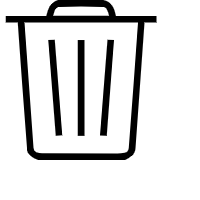
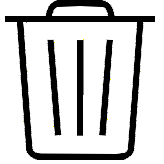
add垃圾桶

diff --git a/src/views/Body/Animation/Left/Body/Upcontext/Component/TodoList/index.tsx b/src/views/Body/Animation/Left/Body/Upcontext/Component/TodoList/index.tsx
@@ -1,48 +1,60 @@
-import React from "react";
-import * as style from "./style.scss";
-import Top from "./Top";
-import img1 from "../img1.jpg";
-import img2 from "./img1.png";
-import useGet from "src/useGet";
- import useFetch from "src/useFetch";
+import React from 'react';
+import * as style from './style.scss';
+import Top from './Top';
+import img1 from '../img1.jpg';
+import useGet from 'src/useGet';
+import useFetch from 'src/useFetch';
+import { Icon } from 'antd';
 
 export default function TodoList() {
- const [paths,setPaths]=React.useState('/user/watchLater')
- const {data,revalidate}=useFetch({
-  path:"user/watchLater/allRemove",
-  method:"post",
- request:{id:123456,removeAll:true}
-   })
-   const removeAll=function(){
-     revalidate();
-     setPaths(data?.path)
-   }
-  const { datas,error } = useGet(paths)
-  return <>{
-  error?
-  <div>failed to load</div>
-  :
-  !datas?
-  <div>loading...</div>
-  :
-   <div className={style.box}>
-      <Top num={datas.items.length} value={datas.items} allRemove={removeAll}/>
-      <div className={style.ul}>
-        <ul className={style.ul}>
-          {datas.items.map((v:{}, i: number) => <li className={style.li} key={i}>{i + 1}
-            <div className={style.img}><img src={img1} width="170px" height="110px" /></div>
-            <div className={style.content}>
-              <div className={style.text}>
-                <div className={style.title}>
-                  {datas.items[i].title}
-                </div>
-                <div className={style.span}>{datas.items[i].content}</div>
-              </div>
-              <img src={img2} width="22px" height="25px" />
-            </div>
-          </li>)}
-        </ul>
-      </div>
-    </div>
-}</>
+  const [paths, setPaths] = React.useState('/user/watchLater');
+  const { data, revalidate } = useFetch({
+    path: 'user/watchLater/allRemove',
+    method: 'post',
+    request: { id: 123456, removeAll: true }
+  });
+  const removeAll = function() {
+    revalidate();
+    setPaths(data?.path);
+  };
+
+  const { datas, error } = useGet(paths);
+  return (
+    <>
+      {error ? (
+        <div>failed to load</div>
+      ) : !datas ? (
+        <div>loading...</div>
+      ) : (
+        <div className={style.box}>
+          <Top
+            num={datas.items.length}
+            value={datas.items}
+            allRemove={removeAll}
+          />
+          <div className={style.ul}>
+            <ul className={style.ul}>
+              {datas.items.map((v: {}, i: number) => (
+                <li className={style.li} key={i}>
+                  {i + 1}
+                  <div className={style.img}>
+                    <img src={img1} width="170px" height="110px" />
+                  </div>
+                  <div title="删除" className={style.content}>
+                    <div className={style.text}>
+                      <div className={style.title}>{datas.items[i].title}</div>
+                      <div className={style.span}>{datas.items[i].content}</div>
+                    </div>
+                    <div className={style.del}>
+                      <Icon type="delete" className={style.img2}/>
+                    </div>
+                  </div>
+                </li>
+              ))}
+            </ul>
+          </div>
+        </div>
+      )}
+    </>
+  );
 }

diff --git a/src/views/Body/Animation/Left/Body/Upcontext/Component/TodoList/style.scss b/src/views/Body/Animation/Left/Body/Upcontext/Component/TodoList/style.scss
@@ -1,14 +1,14 @@
-.box{
+.box {
   width: 74%;
   margin: 0 auto;
   display: flex;
   flex-direction: column;
   align-items: center;
 }
-.ul{
+.ul {
   width: 100%;
 }
-.li{
+.li {
   margin-top: 20px;
   width: 100%;
   height: 110px;
@@ -16,29 +16,53 @@
   justify-content: space-between;
   align-items: center;
 }
-.content{
+.content {
   width: 80%;
   border-bottom: 1px solid rgb(143, 143, 143);
   display: flex;
   justify-content: space-between;
   align-items: center;
 }
-.title{
+.title {
   font-size: 16px;
 }
-.text{
+.text {
   height: 110px;
   display: flex;
   flex-direction: column;
   justify-content: space-between;
   padding: 15px 0;
 }
-.span{
+.span {
   height: 40px;
 }
-.img{
+.img {
   width: 170px;
   height: 100px;
   border-radius: 5px;
   overflow: hidden;
+}
+.img2 {
+  cursor: pointer;
+   font-size: 25px;
+   color:rgb(133, 131, 131)
+}
+.del {
+  display: flex;
+  justify-content: center;
+  align-items: center;
+  width:30px;
+  height: 30px;
+  border-radius: 7px;
+  transition: 0.3s;
+
+}
+:hover.del{
+  background-color: rgb(224, 221, 221);
+}
+:hover.del .img2{
+  color: rgb(13, 189, 243);
+}
+:active.del{
+  background-color: rgb(190, 189, 189);
 }

diff --git a/src/views/Body/Animation/Left/Body/index.tsx b/src/views/Body/Animation/Left/Body/index.tsx
@@ -5,16 +5,16 @@ import Component from "./Upcontext/Component";
 export default function Body() {
   return <div className={style.main}>
     <div className={style.line}>
-      <Component />
-      <Component />
-      <Component />
-      <Component />
+      <Component value="赋值"/>
+      <Component  value="赋值"/>
+      <Component  value="赋值"/>
+      <Component  value="赋值"/>
     </div>
     <div className={style.line}>
-      <Component />
-      <Component />
-      <Component />
-      <Component />
+      <Component  value="赋值"/>
+      <Component  value="赋值"/>
+      <Component  value="赋值"/>
+      <Component  value="赋值"/>
     </div>
   </div>
 }

diff --git a/src/views/Body/Recommend/Left/index.tsx b/src/views/Body/Recommend/Left/index.tsx
@@ -7,10 +7,10 @@ export default function Left (props:{tag:string}){
   return <div className={style.box} >
     <Top tag={props.tag}/>
     <div className={style.line}>
-      <Component />
-      <Component />
-      <Component />
-      <Component />
+      <Component value={"赋值"}/>
+      <Component value={"赋值"}/>
+      <Component value={"赋值"}/>
+      <Component value={"赋值"}/>
     </div>
   </div>
 }

diff --git a/src/useFetch/api/user/watchLater/allRemove/post/response.d.ts b/src/useFetch/api/user/watchLater/allRemove/post/response.d.ts
@@ -6,5 +6,6 @@
  */
 
 export interface UserWatchLaterAllRemovePostResponse {
+  path: SetStateAction<string>;
   success: boolean;
 }
